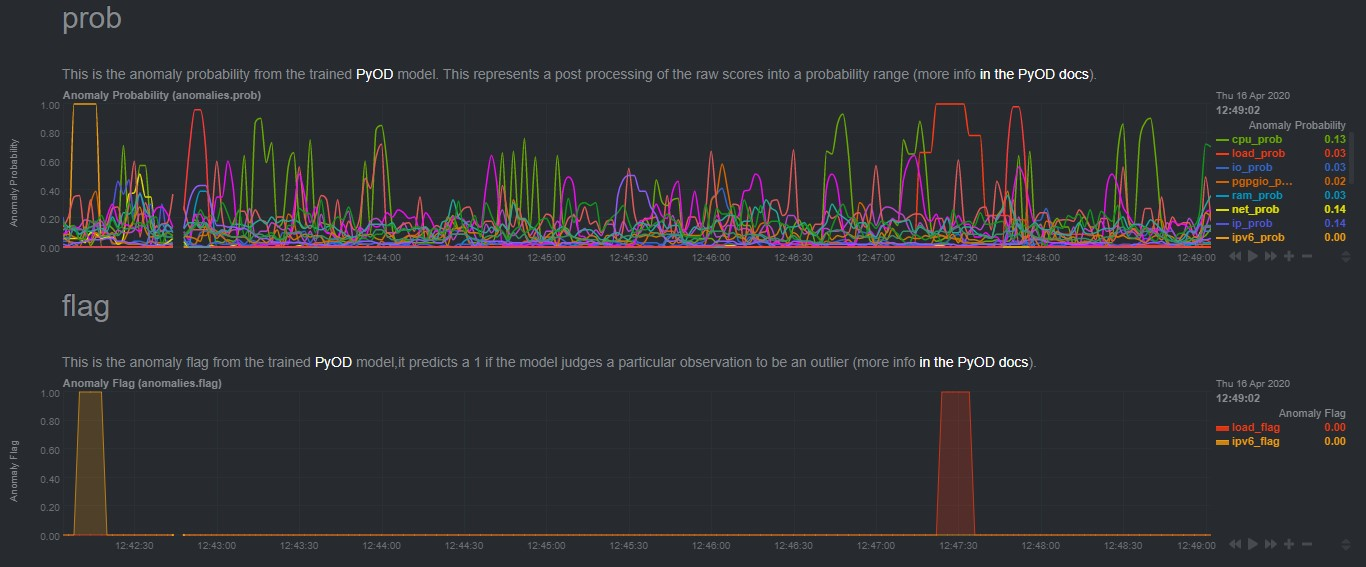
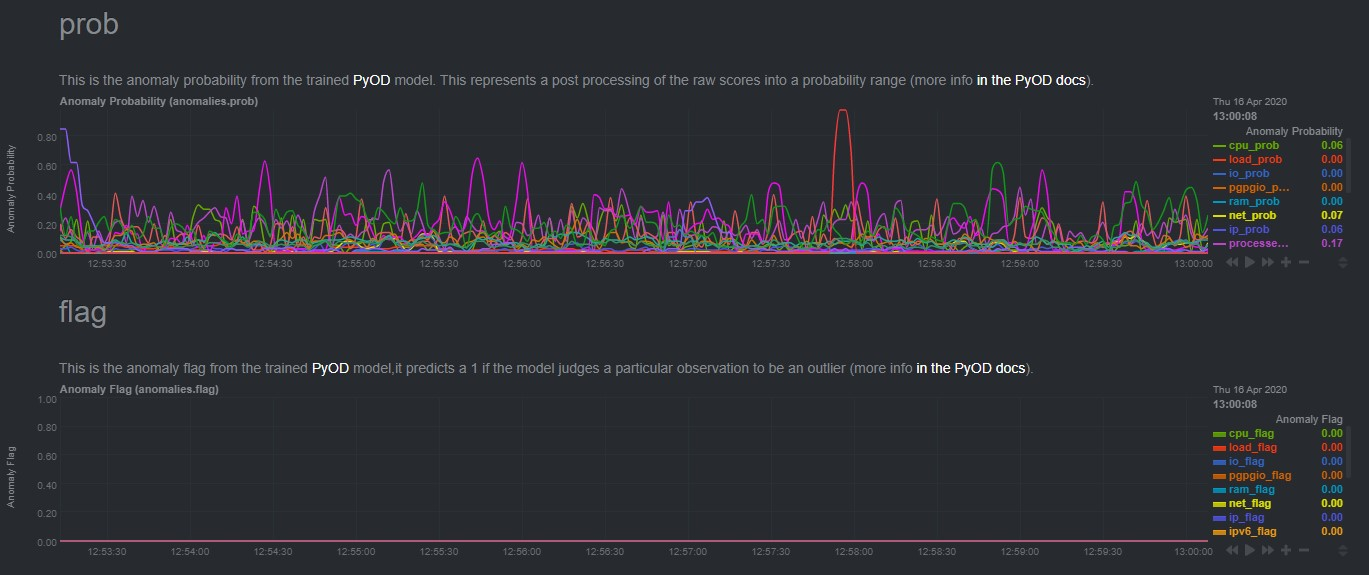
dev

diff --git a/collectors/python.d.plugin/anomalies/README.md b/collectors/python.d.plugin/anomalies/README.md
@@ -55,7 +55,7 @@ MODEL_CONFIG = {
 
 ### Screenshots
 
-So an example of how things might look when all is normal might look like below:
+So an example of how things might look when all is normal might look like below, where the anomaly probabilities are jumping around but none are really high enough to trigger an anomaly flag. 
 
 ![](images/anomalies_normal.jpg)
 
